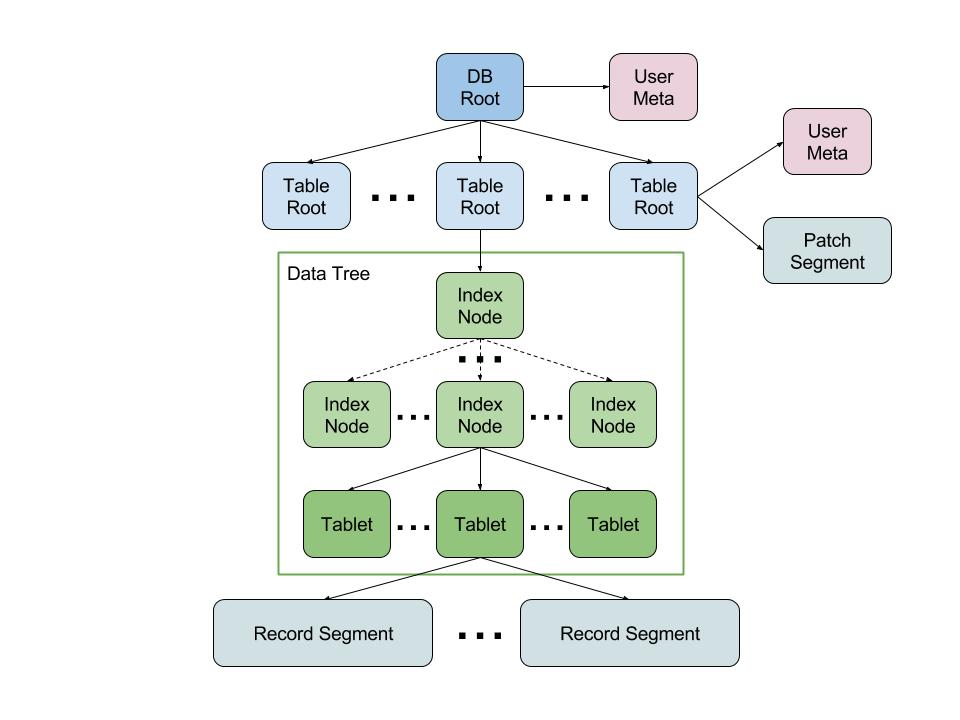
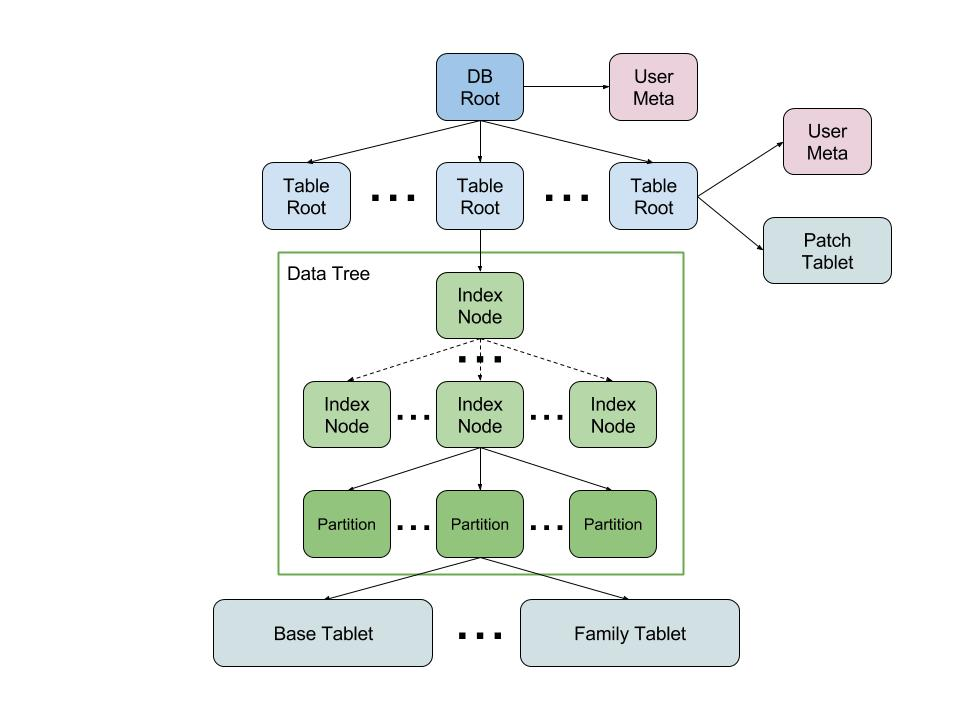
Rename tablets to partitions and segments to tablets.

diff --git a/DESIGN.md b/DESIGN.md
@@ -38,23 +38,23 @@ Non goals:
 
 ## Storage Structure
 
-A merkle database is stored as a _merkle tree_, where each node in the tree is
-an immutable [content-addressed block](https://github.com/greglook/blocks)
-identified by a [multihash](https://github.com/multiformats/clj-multihash) of
-its byte content. The data in each block is serialized with a _codec_ and
+A database is stored as a _merkle tree_, where each node in the tree is an
+immutable [content-addressed block](https://github.com/greglook/blocks)
+identified by a [cryptographic hash](https://github.com/multiformats/clj-multihash)
+of its byte content. The data in each block is serialized with a _codec_ and
 wrapped in [multicodec headers](https://github.com/multiformats/clj-multicodec)
 to support format versioning and feature evolution. Initial versions will likely
 use [CBOR](https://github.com/greglook/clj-cbor) and a header like
-`/merkle-db/v1/cbor/gzip`.
+`/merkle-db/v1/cbor+snappy`.
 
 ![MerkleDB database structure](doc/images/db-data-structure.jpg)
 
 Within a node, references to other nodes are represented with _merkle links_,
 which combine a multihash target with an optional name and the recursive size
-of the referenced block. Because these links are themselves part of the hashed
-content of the node, a change to any part of the tree must propagate up to the
-root node. The entire immutable tree of data at a specific version is therefore
-identified by the multihash of the database root node.
+of the referenced block. These links are themselves part of the hashed
+content of the node, so a change to any part of the tree must propagate up to
+the root node. The entire immutable tree of data at a specific version can
+therefore be identified by the hash of the database root node.
 
 ### Database Root Node
 
@@ -72,21 +72,21 @@ maps table names to _table root nodes_.
 
 A table root is a block which contains table-specific information and links to
 the collections of record data. The records in a table are grouped into
-_tablets_, which contain a contiguous range of record primary keys.
+_partitions_, which contain a contiguous range of record primary keys.
 
-Tablets are the leaves of a _data tree_ of index blocks, sorted by primary key.
-The data fields for each record are stored in _segments_, which are linked from
-each tablet.
+Partitions are the leaves of a _data tree_ of index nodes, sorted by primary key.
+The data fields for each record are stored in _tablets_, which are linked from
+each partition.
 
-In addition to the tablets, tables contain a _patch segment_ linked directly
-from the root node. This segment holds complete records (and tombstones) sorted
+In addition to the partitions, tables contain a _patch tablet_ linked directly
+from the root node. This tablet holds complete records (and tombstones) sorted
 by pk which should be preferred to any found in the main table body. This is
 similar to Clojure's `PersistentVector` 'tails' and allow for amortizing table
 updates across multiple operations.
 
-To perform a read from the tree, first the patch segment is consulted, then the
-segments from each tablet corresponding to the requested fields are used to look
-up record data. The results are merged into a single sequence of records to
+To perform a read from the tree, first the patch tablet is consulted, then the
+tablets from each partition corresponding to the requested fields are used to
+look up record data. The results are merged into a single sequence of records to
 return to the client.
 
 ```clojure
@@ -96,18 +96,18 @@ return to the client.
  :merkle-db.table/patch MerkleLink
  :merkle-db.table/count Long
  :merkle-db.table/families {Keyword #{field-name}}
- :merkle-db.table/branching-factor Long    ;     256
- :merkle-db.table/tablet-size-limit Long   ; 100,000
+ :merkle-db.table/branching-factor Long  ; e.g. 256 children
+ :merkle-db.table/partition-limit Long   ; e.g. 100,000 records
  :time/updated-at Instant}
 ```
 
 ### Data Trees
 
 Data trees are modeled after a [B+ tree](https://en.wikipedia.org/wiki/B%2B_tree)
-and contain both internal index nodes and leaf tablets. Records in a data tree
-are sorted by their _primary key_, which uniquely identifies each record within
-the table. Primary keys are just bytes, allowing for pluggable key serialization
-formats.
+and contain both internal index nodes and leaf partitions. Records in a data
+tree are sorted by their _primary key_, which uniquely identifies each record
+within the table. Primary keys are just bytes, allowing for pluggable key
+serialization formats.
 
 The data tree blocks contain a count of the records under them, so the index is
 also an [order statistic tree](https://en.wikipedia.org/wiki/Order_statistic_tree).
@@ -132,55 +132,55 @@ A similar metric for the linked block sizes allows for quick data sizing as well
 
 **TODO:** Define the exact algorithm for ordering keys.
 
-### Tablets
+### Partitions
 
-Tablets represent contiguous ranges of records, sorted by primary key. The data
-for records are stored in _segments_, which are linked from each tablet.
+Partitions represent contiguous ranges of records, sorted by primary key. The
+data for records are stored in _tablets_, which are linked from each partition.
 
-Unlike the internal nodes, tablets may represent significantly more entries than
-the tree's branching factor. When tablets grow above a configurable limit, they
-are split into two smaller tablets to enable more parallelism when processing
-the table.
+Unlike the internal nodes, partitions may represent significantly more entries
+than the tree's branching factor. When partitions grow above a configurable
+limit, they are split into two smaller partitions to enable more parallelism
+when processing the table.
 
 Tables may define _families_ of fields which are often accessed together, as a
 storage optimization for queries. Each family of fields will be written in
-separate segment in each tablet, allowing queries to read from only the families
-whose data they require.
+separate tablet in each partition, allowing queries to read from only the
+families whose data they require.
 
-Tablets always contain at least one _base_ segment, which is used to store the
-data from any fields not grouped into a family. _All_ record keys will be
-present in the base segment, even if there is no field data present. This makes
+Partitions always contain at least one _base_ tablet, which is used to store
+the data from any fields not grouped into a family. _All_ record keys will be
+present in the base tablet, even if there is no field data present. This makes
 sure that the full sequence of keys can be enumerated with only the base.
 
 ```clojure
-{:data/type :merkle-db/tablet
+{:data/type :merkle-db/partition
  :merkle-db.data/count Long
- :merkle-db.tablet/start-key key-bytes
- :merkle-db.tablet/end-key key-bytes
- :merkle-db.tablet/segments
+ :merkle-db.partition/start-key key-bytes
+ :merkle-db.partition/end-key key-bytes
+ :merkle-db.partition/tablets
  {:base MerkleLink
   family-name MerkleLink}}
 ```
 
 **TODO:** Should families allow duplicate fields?
 
-### Data Segments
+### Data Tablets
 
-The actual record data is stored in the _data segments_.
+The actual record data is stored in the _tablets_.
 
 ```clojure
-{:data/type :merkle-db/segment
- :merkle-db.segment/records
+{:data/type :merkle-db/tablet
+ :merkle-db.tablet/records
  [[key-bytes-a {:abc 123, "xyz" true, ...}]
   [key-bytes-b {:abc 456, "xyz" false, ...}]
   ...]}
 ```
 
-Segments should not link to any further nodes, and are probably the best
+Tablets should not link to any further nodes, and are probably the best
 candidate for a custom encoding format. In particular, caching field names at
 the beginning of the data and referencing them by number in the actual record
 bodies would probably save a lot of space. This may not be a huge win compared
-to simply applying compression to the entire segment block, however.
+to simply applying compression to the entire tablet block, however.
 
 
 ## Client API
@@ -255,7 +255,7 @@ must be unique within the database.
 (describe-table db table-name) =>
 {:id Multihash
  :name String
- :tablets Long
+ :partitions Long
  :count Long
  :size Long
  :patch {:count Long, :size Long}
@@ -269,8 +269,8 @@ must be unique within the database.
 
 ; Change the defined field family groups in a table. The new families should be
 ; provided as a keyword mapped to a set of field names. This requires rebuilding
-; the record segments, and may take some time. It can sort of be done "online"
-; though, by committing after each tablet is rebuilt.
+; the record tablets, and may take some time. It can sort of be done "online"
+; though, by committing after each partition is rebuilt.
 (alter-families db table-name new-families) => db'
 
 ; Remove a table from the database.
@@ -308,16 +308,16 @@ will be returned.
 (delete db table-name primary-keys) => db'
 ```
 
-### Tablet Operations
+### Partition Operations
 
-Tablets divide up the record keys into ranges and are the basic unit of
+Partitions divide up the record keys into ranges and are the basic unit of
 parallelism. These operations are lower-level and intended for use by
 high-performance applications.
 
 ```clojure
-; List the tablets which compose the blocks of primary key ranges for the
+; List the partitions which compose the blocks of primary key ranges for the
 ; records in the table.
-(list-tablets db table-name) =>
+(list-partitions db table-name) =>
 ({:id Multihash
   :count Long
   :size Long
@@ -325,13 +325,13 @@ high-performance applications.
   :end key-bytes}
  ...)
 
-; Read all the records in the given tablet, returning a sequence of data for
+; Read all the records in the given partition, returning a sequence of data for
 ; the given set of fields.
-(read-tablet db tablet-id & [fields]) => (record ...)
+(read-partition db partition-id & [fields]) => (record ...)
 
-; Rebuild a table from a sequence of new or updated tablets. Existing table
+; Rebuild a table from a sequence of new or updated partitions. Existing table
 ; settings and metadata are left unchanged.
-(build-table db table-name tablet-ids) => db'
+(build-table db table-name partition-ids) => db'
 ```
 
 
@@ -347,34 +347,34 @@ sufficient for simple use-cases.
 
 ### Bulk Read
 
-Tablets provide a natural grain to parallelize reads over. Either the whole
-table or the tablets covering a specific range of keys can be selected for
-querying and read in parallel. Each tablet and the corresponding segments only
-need to be read by a single job.
+Partitions provide a natural grain to parallelize reads over. Either the whole
+table or the partitions covering a specific range of keys can be selected for
+querying and read in parallel. Each partition and the corresponding tablets
+only need to be read by a single job.
 
 Choosing field families which align with the types of queries done over the
-data will improve IO efficiency, because only the required segments will be
-loaded for each tablet.
+data will improve IO efficiency, because only the required tablets will be
+loaded for each partition.
 
 ### Bulk Update
 
 Doing large bulk writes with non-sorted primary keys will generally update most
-of the tablets within a table. In this case, using the high-level write
+of the partitions within a table. In this case, using the high-level write
 operation will generally not be very efficient. Instead, updates may be done in
 parallel by applying the following method to each table:
 
-1. List the tablets in the table to be updated.
-2. Divide up the record keyspace into ranges matching the tablets.
-3. Group the record updates into batches based on which tablet's range they fall
-   into.
-4. In parallel, process each batch of updates and existing tablet to produce a
-   sequence of output tablets (for example, there may be more than one if the
-   tablet exceeds the size limit and splits). Write the updated segments and new
-   tablets to the backing block store.
-6. Build a new index tree over the new set of tablets and update the table.
+1. List the partitions in the table to be updated.
+2. Divide up the record keyspace into ranges matching the partitions.
+3. Group the record updates into batches based on which partition's range they
+   fall into.
+4. In parallel, process each batch of updates and existing partition to produce
+   a sequence of output partitions (for example, there may be more than one if
+   the partition exceeds the size limit and splits). Write the updated tablets
+   and new partitions to the backing block store.
+6. Build a new index tree over the new set of partitions and update the table.
 
 Choosing field families which align with the types of writes to the table will
-reduce IO and improve storage efficiency, because the existing segments can be
+reduce IO and improve storage efficiency, because the existing tablets can be
 re-used from the current version.
 
 ### Time-Series Data
@@ -384,16 +384,16 @@ new data to the table, and deletions are generally rare and occur on large
 blocks of old data (aging).
 
 In order to support this pattern, the record keys must be monotonically
-increasing. This way, new batches of data can be written as a new tablet, whose
-record keys are all greater than any keys already in the table. The new tablet
-is appended to the sequence of tablets and a new data tree is built to
-incorporate it.
+increasing. This way, new batches of data can be written as a new partition,
+whose record keys are all greater than any keys already in the table. The new
+partition is appended to the sequence of partitions and a new data tree is built
+to incorporate it.
 
 For reads from time-series data, it is desirable to find out only "new"
-information to enable incremental processing. Because tablets are immutable and
-shared broadly, a simple hash id comparison can be used to detect tablets added
-or changed between two versions. The fact that tablets don't overlap makes it
-safe for consumers to assume all new tablets are new data.
+information to enable incremental processing. Because partitions are immutable
+and shared broadly, a simple hash id comparison can be used to detect partitions
+added or changed between two versions. The fact that partitions don't overlap
+makes it safe for consumers to assume all new partitions are new data.
 
 ### Logical Record Versions
 
